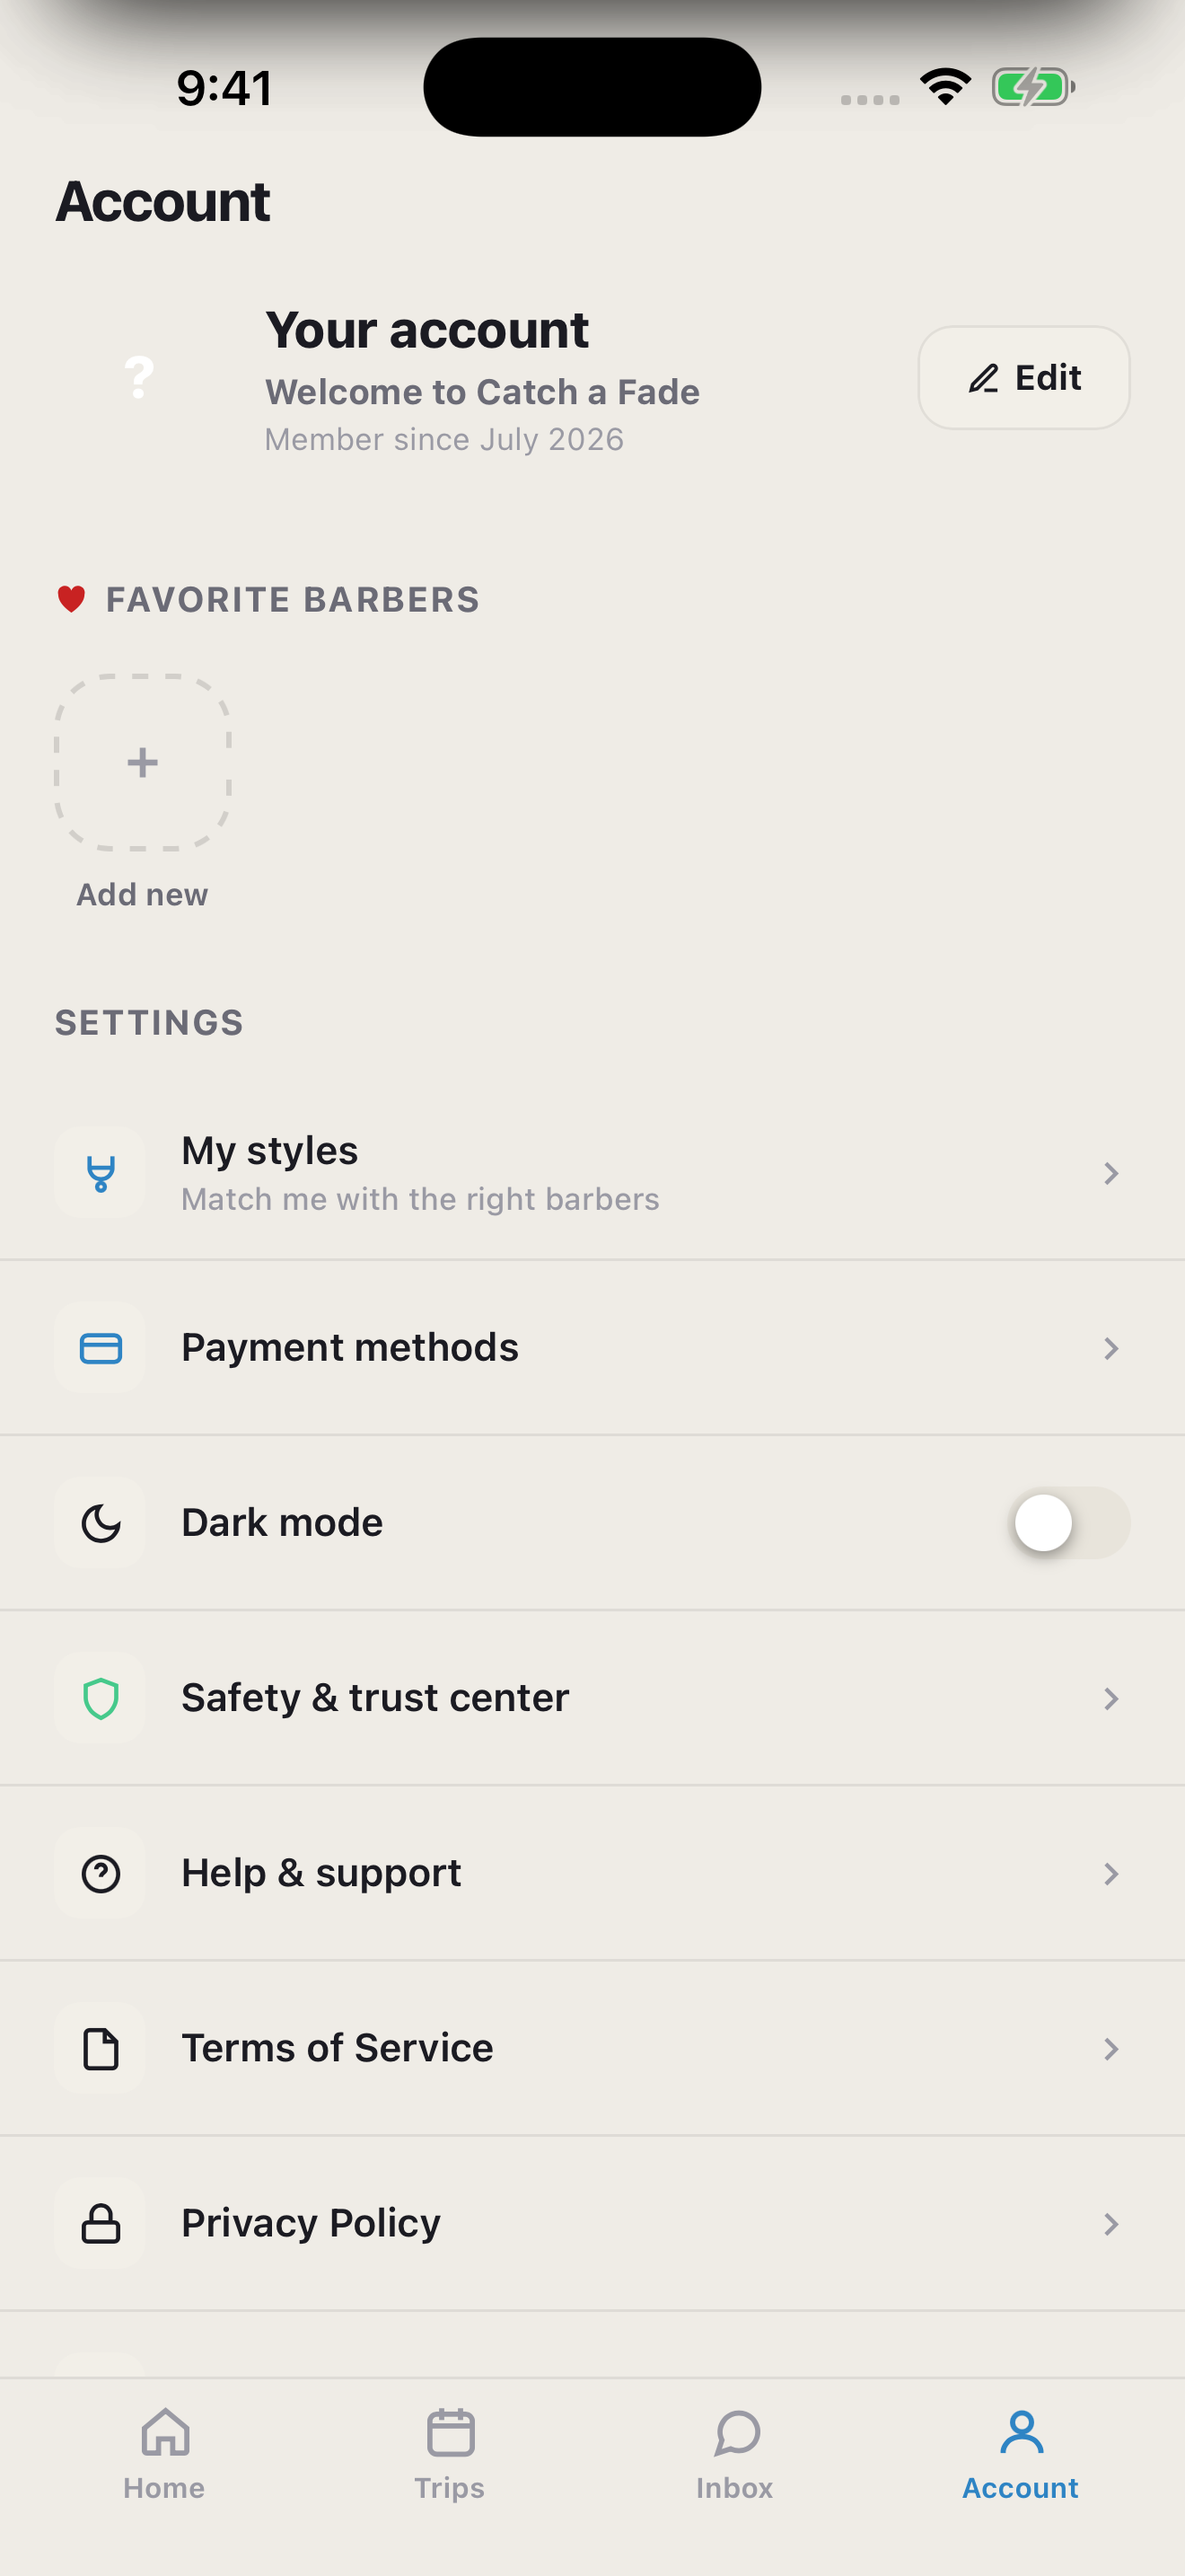
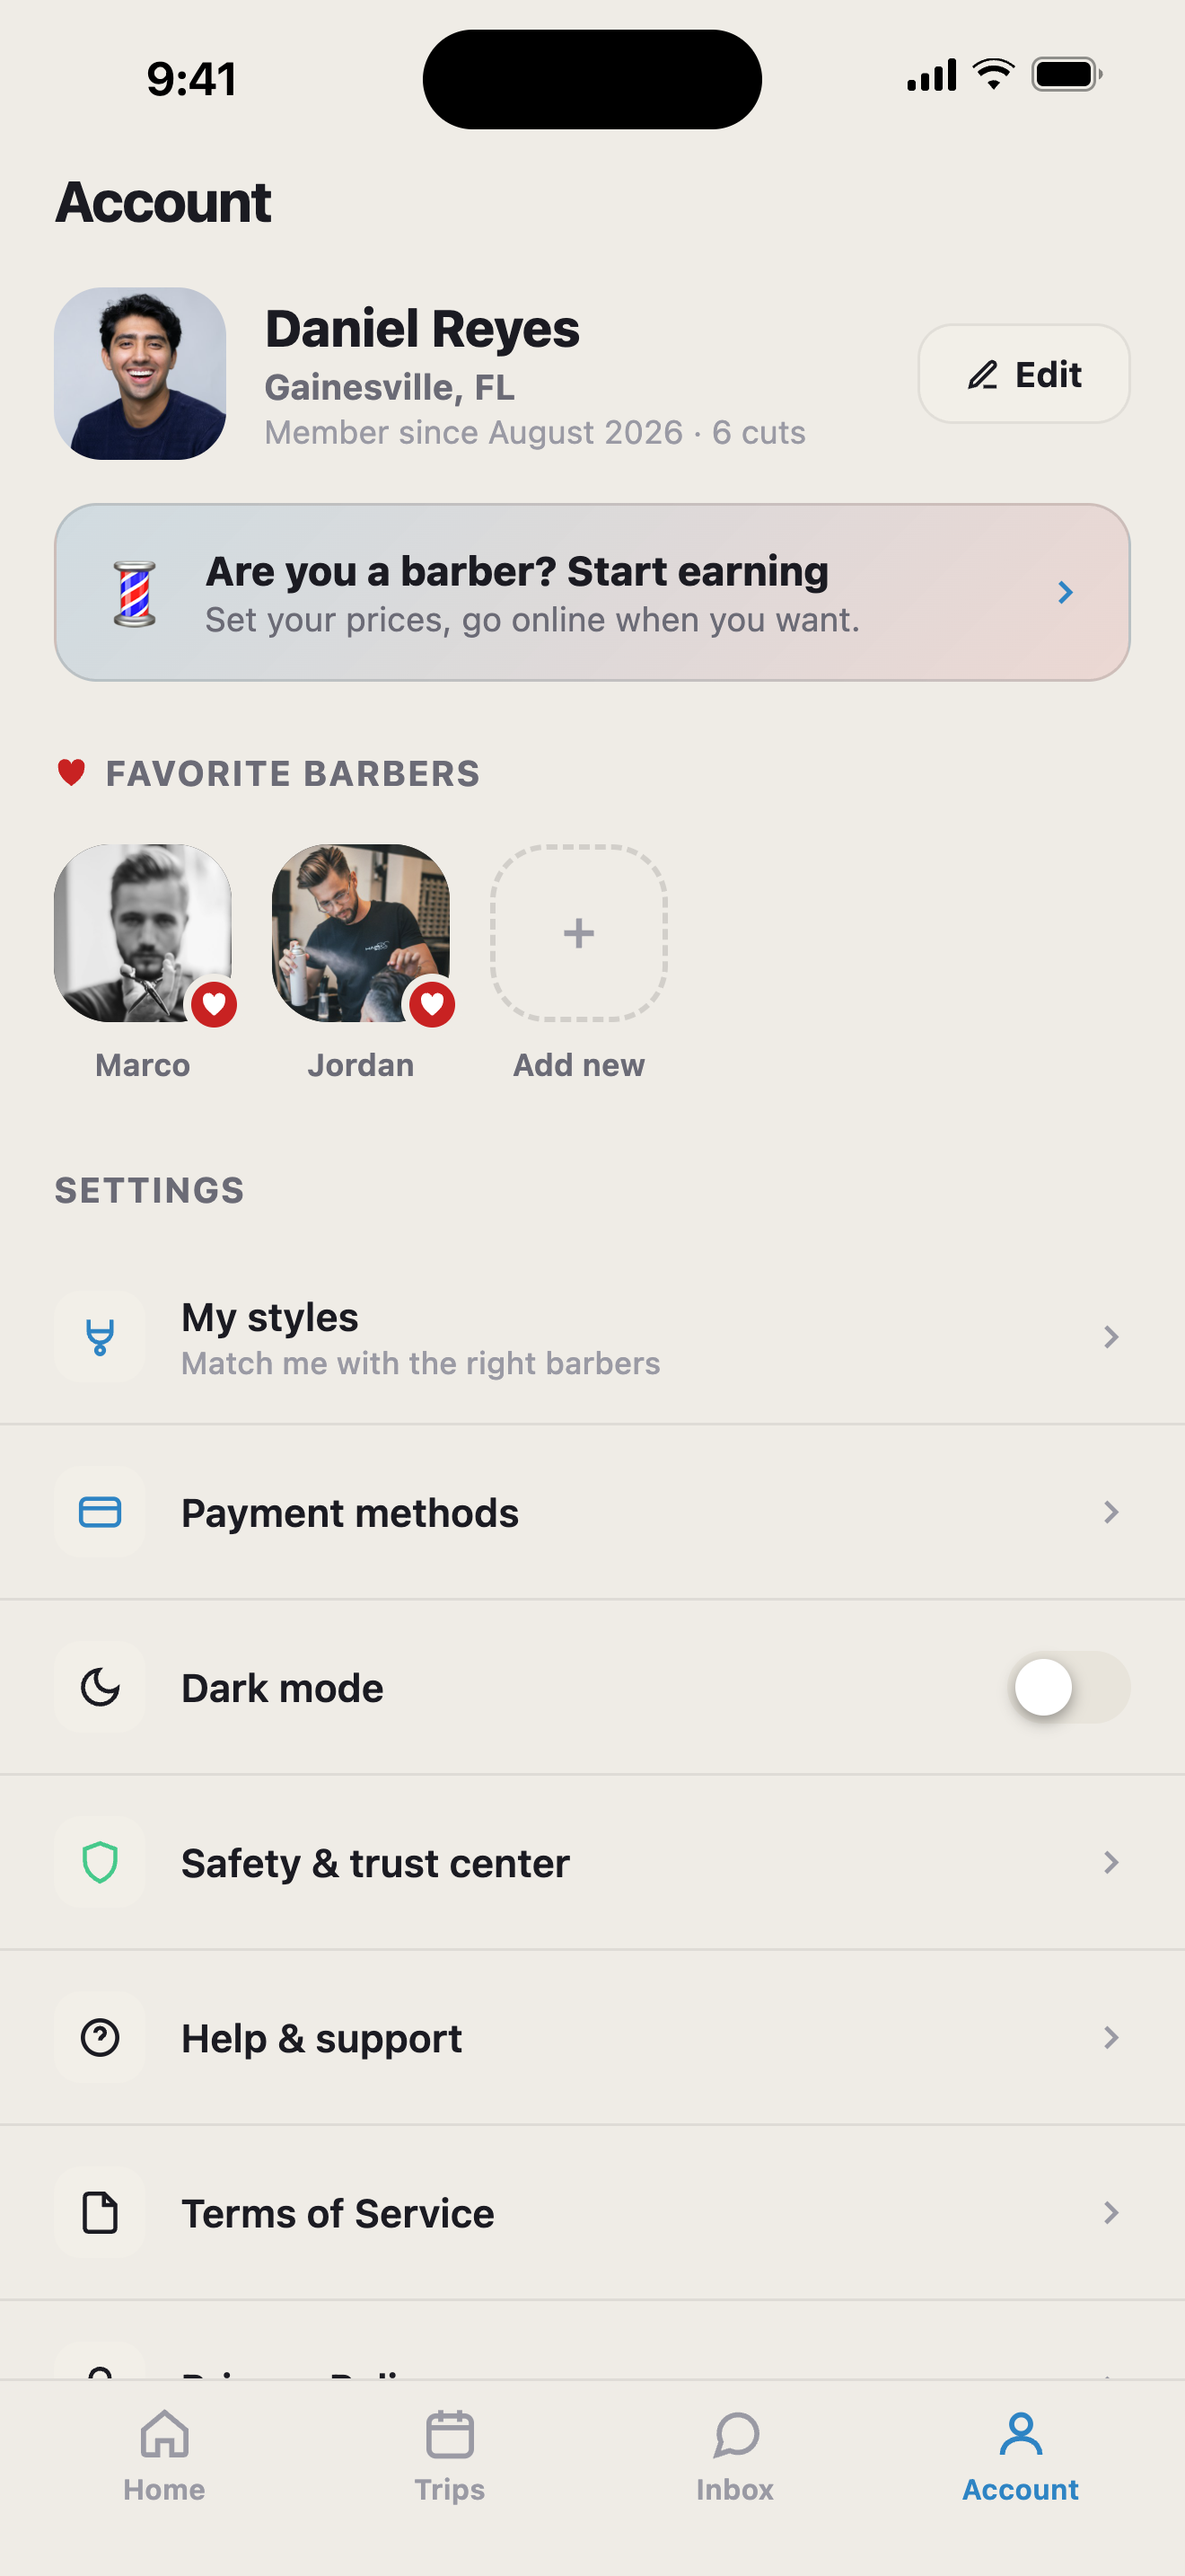
Onboarding + location polish from Zuf's review; build 15
- 'Are you a barber?' is a big boxed button on the welcome and final screens
- Final onboarding screen: removed 'Browse barbers first' (Skip still lets guests in)
- Route animation: line leaves the top-middle of the barber pole; scissors stop before the house
- City map shows 34 pins spread over the whole map, bottom included
- Map credit is just '© OpenStreetMap' (no Leaflet name/flag)
- Location: opens on the last known spot instantly, quick first fix then GPS
  refines, no in-app re-ask when iOS already granted, no redraw on tiny GPS jitter
- Lighter stripe layer on onboarding buttons (first 'Let's go' stutter)
- App Store screenshot 5: real photo + two favorite barbers (Unsplash license)

diff --git a/index.html b/index.html
@@ -748,6 +748,12 @@ body.light .agreeBar{background:rgba(255,255,255,.94);}
 .agreeYes{background:#3a3a3c;color:#8e8e93;}
 .agreeYes:not(:disabled){background:#0a84ff;color:#fff;}
 .agreeYes:not(:disabled):active{background:#0060df;}
+/* "Are you a barber?" — a real button, not a footnote: recruiting barbers matters */
+.ob-barber{display:flex;align-items:center;justify-content:center;gap:9px;width:100%;margin-top:12px;padding:15px 16px;border-radius:14px;background:#FFFDF8;border:2px solid #15110D;color:#15110D;font-size:15.5px;font-weight:820;cursor:pointer;box-shadow:0 8px 20px -10px rgba(0,0,0,.35);}
+.ob-barber .pole{font-size:20px;line-height:1;}
+.ob-barber b{color:#C7414E;font-weight:850;}
+.ob-barber:active{transform:scale(.97);}
+html.native .ob-barber{font-size:17.5px;padding:17px;}
 /* barber landing */
 .bl-row{display:flex;gap:13px;align-items:flex-start;margin:0 20px 10px;padding:13px 14px;border-radius:14px;background:var(--card);border:1px solid var(--line2);}
 .bl-ic{width:34px;height:34px;flex-shrink:0;border-radius:10px;background:rgba(46,132,196,.16);color:var(--blue);display:flex;align-items:center;justify-content:center;font-weight:800;font-size:16px;}
@@ -892,7 +898,7 @@ body.light .agreeBar{background:rgba(255,255,255,.94);}
 .ob-s{font-size:21px;line-height:1.5;color:var(--ob-dimm);max-width:330px;margin:0 auto;}
 .ob-nav{padding:16px 26px 48px;position:relative;z-index:1;}
 .ob-cta{position:relative;z-index:0;overflow:hidden;width:100%;padding:16px;border:none;border-radius:14px;background:#2a0f12;color:#fff;text-shadow:0 1px 3px rgba(0,0,0,.95),0 0 2px rgba(0,0,0,.7);font-size:15.5px;font-weight:820;cursor:pointer;letter-spacing:-.1px;box-shadow:0 12px 28px -12px rgba(0,0,0,.75);transition:transform .12s,opacity .12s;}
-.ob-cta::before{content:"";position:absolute;top:-90px;left:-90px;right:-90px;bottom:-90px;background:var(--bp-spiral-img);animation:bpSlide 5.5s linear infinite;z-index:-1;will-change:transform;}
+.ob-cta::before{content:"";position:absolute;top:0;left:0;right:-58px;bottom:-42px;background:var(--bp-spiral-img);animation:bpSlide 5.5s linear infinite;z-index:-1;will-change:transform;}
 .ob-cta::after{content:"";position:absolute;inset:0;background:rgba(0,0,0,.18);z-index:-1;}
 .ob-cta:active{transform:scale(.97);opacity:.88;}
 .ob-ghost{text-align:center;margin-top:12px;font-size:13px;color:var(--ob-dimm);cursor:pointer;}
@@ -1485,7 +1491,7 @@ html.native .ob-tip{ font-size:14px; }
     </div>
     <div class="ob-nav" data-a="2">
       <button class="ob-cta" onclick="obNext()">Let's go →</button>
-      <div class="ob-ghost" onclick="sessionStorage.setItem('fadex_seen_ob','1');goBarberSide()">Are you a barber? <b>Start earning →</b></div>
+      <button class="ob-barber" onclick="sessionStorage.setItem('fadex_seen_ob','1');goBarberSide()"><span class="pole">💈</span>Are you a barber? <b>Start earning →</b></button>
     </div>
   </section>
 
@@ -1528,11 +1534,11 @@ html.native .ob-tip{ font-size:14px; }
             <line x1="158" y1="0" x2="158" y2="166" stroke="#2E84C4" stroke-width=".6"/>
           </svg>
           <svg style="position:absolute;inset:0;width:100%;height:100%" viewBox="0 0 236 166" fill="none">
-            <path d="M34 134 L34 74 L120 74 L120 38 L202 38" stroke="var(--ob-gold)" stroke-width="2.5" stroke-linecap="round" stroke-linejoin="round" stroke-dasharray="262" stroke-dashoffset="262" style="animation:obRoute 1.3s .3s ease-in-out forwards"/>
+            <path d="M34 127 L34 74 L120 74 L120 38 L174 38" stroke="var(--ob-gold)" stroke-width="2.5" stroke-linecap="round" stroke-linejoin="round" stroke-dasharray="229" stroke-dashoffset="229" style="animation:obRoute 1.3s .3s ease-in-out forwards"/>
           </svg>
-          <span style="position:absolute;left:23px;top:122px;font-size:23px;animation:obPop .4s .2s ease-out both">💈</span>
-          <span style="position:absolute;left:190px;top:18px;font-size:25px;animation:obPop .4s 1.55s ease-out both">🏠</span>
-          <span style="position:absolute;left:0;top:0;font-size:18px;offset-path:path('M34 134 L34 74 L120 74 L120 38 L202 38');animation:obTravel 1.3s .3s ease-in-out forwards">✂</span>
+          <span style="position:absolute;left:20px;top:127px;width:28px;height:28px;display:flex;align-items:center;justify-content:center;font-size:23px;line-height:1;animation:obPop .4s .2s ease-out both">💈</span>
+          <span style="position:absolute;left:196px;top:24px;width:30px;height:30px;display:flex;align-items:center;justify-content:center;font-size:25px;line-height:1;animation:obPop .4s 1.55s ease-out both">🏠</span>
+          <span style="position:absolute;left:0;top:0;width:18px;height:18px;display:flex;align-items:center;justify-content:center;font-size:16px;line-height:1;offset-path:path('M34 127 L34 74 L120 74 L120 38 L174 38');offset-rotate:0deg;animation:obTravel 1.3s .3s ease-in-out forwards">✂</span>
         </div>
       </div>
       <div class="ob-text">
@@ -1762,6 +1768,7 @@ html.native .ob-tip{ font-size:14px; }
 
   <!-- OB 16 · CTA / Sign-Up Gate -->
   <section class="screen ob-screen ob-noise" id="ob16">
+    <span class="ob-skip" onclick="obSkip()">Skip</span>
     <div class="ob10-glow"></div>
     <div class="ob-body" style="justify-content:center;padding-top:0">
       <div class="ob-vis" style="flex:none;height:150px">
@@ -1775,8 +1782,7 @@ html.native .ob-tip{ font-size:14px; }
     <div class="ob-nav">
       <button class="ob-cta" style="animation:obUp .38s .18s ease-out both,obPulse 1.8s .8s ease-in-out 2;" onclick="goAuth('signup')">Sign Up Free</button>
       <div class="ob-ghost" style="animation:obUp .38s .32s ease-out both;" onclick="goAuth('login')">Already have an account? <b>Log in</b></div>
-      <div class="ob-ghost" style="animation:obUp .38s .44s ease-out both;" onclick="guestBrowse()">Browse barbers first — <b>no account needed</b></div>
-      <div class="ob-ghost" style="animation:obUp .38s .56s ease-out both;" onclick="goBarberSide()">Are you a barber? <b>Start earning →</b></div>
+      <button class="ob-barber" style="animation:obUp .38s .44s ease-out both;" onclick="goBarberSide()"><span class="pole">💈</span>Are you a barber? <b>Start earning →</b></button>
     </div>
   </section>
 
@@ -3264,6 +3270,9 @@ let _locMode = 'none'; // 'gps' | 'ip' | 'none'
 let _gpsWatchId = null;
 let _accuracyCircle = null;
 let _locPrimeShown = false; // in-app "Enable location" ask shown once per session
+function saveLastLocation(ll, city){
+  try{ if(ll) localStorage.setItem('fadex_last_loc', JSON.stringify({ll:ll, city:city||'', t:Date.now()})); }catch(e){}
+}
 function haversine(lat1,lng1,lat2,lng2){
   const R=3958.8, dLat=(lat2-lat1)*Math.PI/180, dLng=(lng2-lng1)*Math.PI/180;
   const a=Math.sin(dLat/2)**2 + Math.cos(lat1*Math.PI/180)*Math.cos(lat2*Math.PI/180)*Math.sin(dLng/2)**2;
@@ -3292,16 +3301,21 @@ function browserGeo(){
     navigator.geolocation.getCurrentPosition(
       p=>{ userAccuracy = p.coords.accuracy; res([p.coords.latitude,p.coords.longitude]); },
       e=>rej(e&&e.code===1?'denied':'fail'),
-      {timeout:12000, maximumAge:0, enableHighAccuracy:true}
+      {timeout:8000, maximumAge:120000, enableHighAccuracy:false}
     );
   });
 }
 function startGpsWatch(){
   if(!navigator.geolocation || _gpsWatchId!=null) return;
   _gpsWatchId = navigator.geolocation.watchPosition(p=>{
-    userLL = [p.coords.latitude, p.coords.longitude];
+    const next=[p.coords.latitude, p.coords.longitude];
+    const movedMi = userLL ? haversine(userLL[0],userLL[1],next[0],next[1]) : 1;
     userAccuracy = p.coords.accuracy;
+    const wasGps = _locMode==='gps';
     _locMode = 'gps';
+    saveLastLocation(next, userCity);
+    if(wasGps && movedMi < 0.03){ setLocPill('Nearby in '+(userCity||'your area')); return; }  // <50 m: nothing to redraw
+    userLL = next;
     setLocPill('Nearby in '+(userCity||'your area'));
     // live-move the user marker on the map
     if(homeMapInst){
@@ -3372,9 +3386,11 @@ async function detectUserLocation(force){
   try {
     const ll = await browserGeo();
     userLL = ll; _locDetected=true; _locMode='gps';
-    try { const name = await reverseGeocode(ll); userCity = name || 'Your area'; } catch(e){ userCity='Your area'; }
+    try{ localStorage.setItem('fadex_geo_ok','1'); }catch(e){}
+    saveLastLocation(ll, userCity);
     setLocPill('Nearby in '+(userCity||'your area'), 'gps');
     startGpsWatch();
+    reverseGeocode(ll).then(name=>{ if(name){ userCity=name; saveLastLocation(userLL, name); setLocPill('Nearby in '+name, 'gps'); } }).catch(()=>{});
   } catch(e){
     // GPS unavailable — denied, blocked at the site level, OS location off, or timed out.
     // Try city-level IP location so the app STILL WORKS (the user opted in by tapping
@@ -3430,6 +3446,11 @@ async function maybeRequestLocation(){
     if(_locMode==='gps') startGpsWatch();
     return;
   }
+  // Already granted on this phone (iOS remembers it) → never ask again, just locate.
+  try {
+    const native = window.CAF_GEO_CHECK ? await window.CAF_GEO_CHECK() : '';
+    if(native==='granted' || (native!=='denied' && localStorage.getItem('fadex_geo_ok'))){ detectUserLocation(true); return; }
+  } catch(e){}
   // If the browser already granted permission, skip the ask and locate directly.
   try {
     if(navigator.permissions && navigator.permissions.query){
@@ -3979,10 +4000,22 @@ function closeCancelConfirm(){ document.getElementById('cancelModal').classList.
 let homeMapInst, trackMapInst, trackBarberMarker, trackRoute;
 const DEFAULT_CENTER = [40.7580, -73.9855]; // Manhattan default
 let userLL = DEFAULT_CENTER.slice();
+// Open on the last known location instantly; GPS refines it in the background.
+(function restoreLastLocation(){
+  try{
+    const j=JSON.parse(localStorage.getItem('fadex_last_loc')||'null');
+    if(j && j.ll && j.ll.length===2 && Date.now()-(j.t||0) < 7*864e5){
+      userLL=j.ll; userCity=j.city||''; _locDetected=true; _locMode='gps';
+      setTimeout(()=>{ try{ setLocPill('Nearby in '+(userCity||'your area'), 'gps'); }catch(e){} }, 0);
+    }
+  }catch(e){}
+})();
 const BARBER_OFFSETS = [[0.0095,0.0042],[0.0058,-0.0067],[-0.0074,-0.0033],[-0.0051,0.0078],[0.0036,0.0095]];
 // CARTO basemaps started stamping "API KEY REQUIRED" on keyless tiles (Oct 2026),
 // so the fallback map uses the standard OSM tiles; dark mode darkens them in CSS.
 const TILE_OSM = 'https://tile.openstreetmap.org/{z}/{x}/{y}.png';
+// Map credit shows only the required "© OpenStreetMap", not the Leaflet name and flag.
+if(window.L && L.Control && L.Control.Attribution) L.Control.Attribution.prototype.options.prefix = false;
 function isLight(){ return document.body.classList.contains('light'); }
 function curTiles(){ return TILE_OSM; }
 const TILE_OPTS = {maxZoom:19, attribution:'© <a href="https://www.openstreetmap.org/copyright">OpenStreetMap</a>'};
@@ -5927,11 +5960,15 @@ function ob9Build(){
     +'<path d="M0 200 L120 120 L200 150 L320 70" stroke="#8FD0FF" stroke-width="1.8" fill="none" opacity=".85"/>'
     +'</svg>';
   // 2) lots of red location pins dropping out of the sky onto the map
-  const N=24;
+  // 6 x 6 grid with a fixed jitter so pins cover every part of the map, bottom included
   const pins=[];
-  for(let k=0;k<N;k++){
-    const x=(7+((k*53)%86)).toFixed(1), y=(12+((k*71)%74)).toFixed(1);
-    const anim=reduced ? '' : ('animation:ob9Pin .55s '+(0.055*k).toFixed(2)+'s cubic-bezier(.2,1.6,.35,1) both');
+  const COLS=6, ROWS=6;
+  for(let k=0;k<COLS*ROWS;k++){
+    const c=k%COLS, r=Math.floor(k/COLS);
+    if(r===2 && (c===2||c===3)) continue;                  // keep the "you" dot clear
+    const jx=((k*37)%11)-5, jy=((k*53)%9)-4;
+    const x=(8+c*(84/(COLS-1))+jx).toFixed(1), y=(14+r*(80/(ROWS-1))+jy).toFixed(1);
+    const anim=reduced ? '' : ('animation:ob9Pin .55s '+(0.04*k).toFixed(2)+'s cubic-bezier(.2,1.6,.35,1) both');
     pins.push('<span class="ob9-pin" style="left:'+x+'%;top:'+y+'%;'+(reduced?'':anim)+'">📍</span>');
   }
   // 3) a "you" dot in the middle for reference

diff --git a/src/native.js b/src/native.js
@@ -148,10 +148,12 @@ function installGeolocation() {
         try {
           const perm = await Geolocation.requestPermissions({ permissions: ['location'] });
           if (perm && perm.location === 'denied') throw { code: 1, message: 'denied' };
+          // A one-off fix uses the fast (Wi-Fi/cell, recently cached) location unless the
+          // caller explicitly asks for GPS; the watch below sharpens it to GPS accuracy.
           const p = await Geolocation.getCurrentPosition({
-            enableHighAccuracy: opts.enableHighAccuracy !== false,
-            timeout: opts.timeout || 12000,
-            maximumAge: opts.maximumAge || 0,
+            enableHighAccuracy: opts.enableHighAccuracy === true,
+            timeout: opts.timeout || 8000,
+            maximumAge: opts.maximumAge != null ? opts.maximumAge : 60000,
           });
           success && success({
             coords: {
@@ -191,6 +193,11 @@ function installGeolocation() {
       const wid = id && id.id ? id.id : id;
       if (wid) safe(() => Geolocation.clearWatch({ id: wid }));
     },
+  };
+  // Lets the page skip its "Enable location" ask when iOS has already granted it.
+  window.CAF_GEO_CHECK = async () => {
+    try { const r = await Geolocation.checkPermissions(); return (r && (r.location || r.coarseLocation)) || ''; }
+    catch (e) { return ''; }
   };
   try {
     Object.defineProperty(navigator, 'geolocation', { value: impl, configurable: true });
